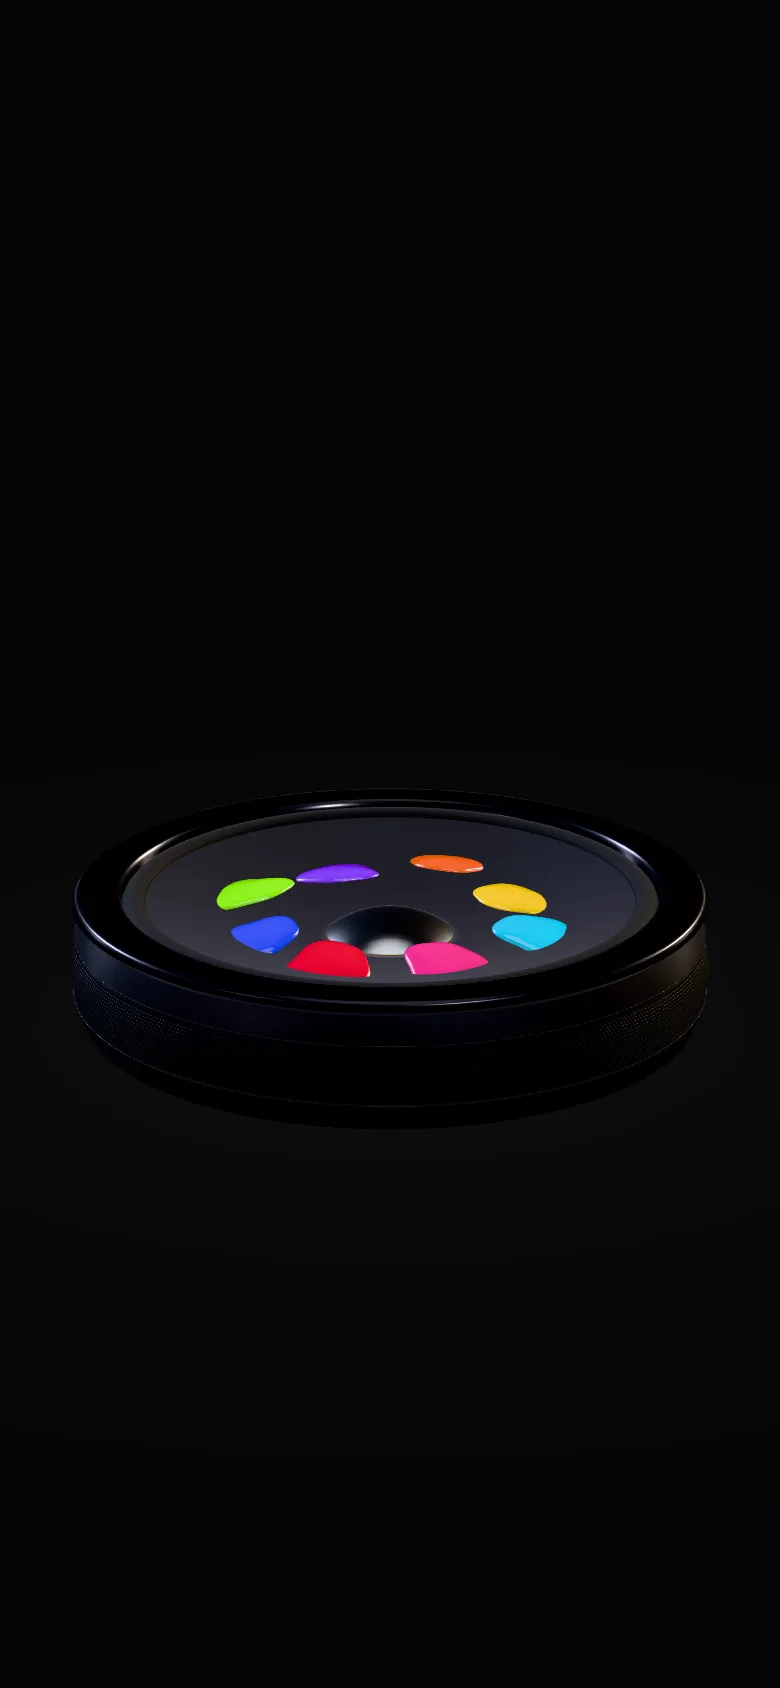
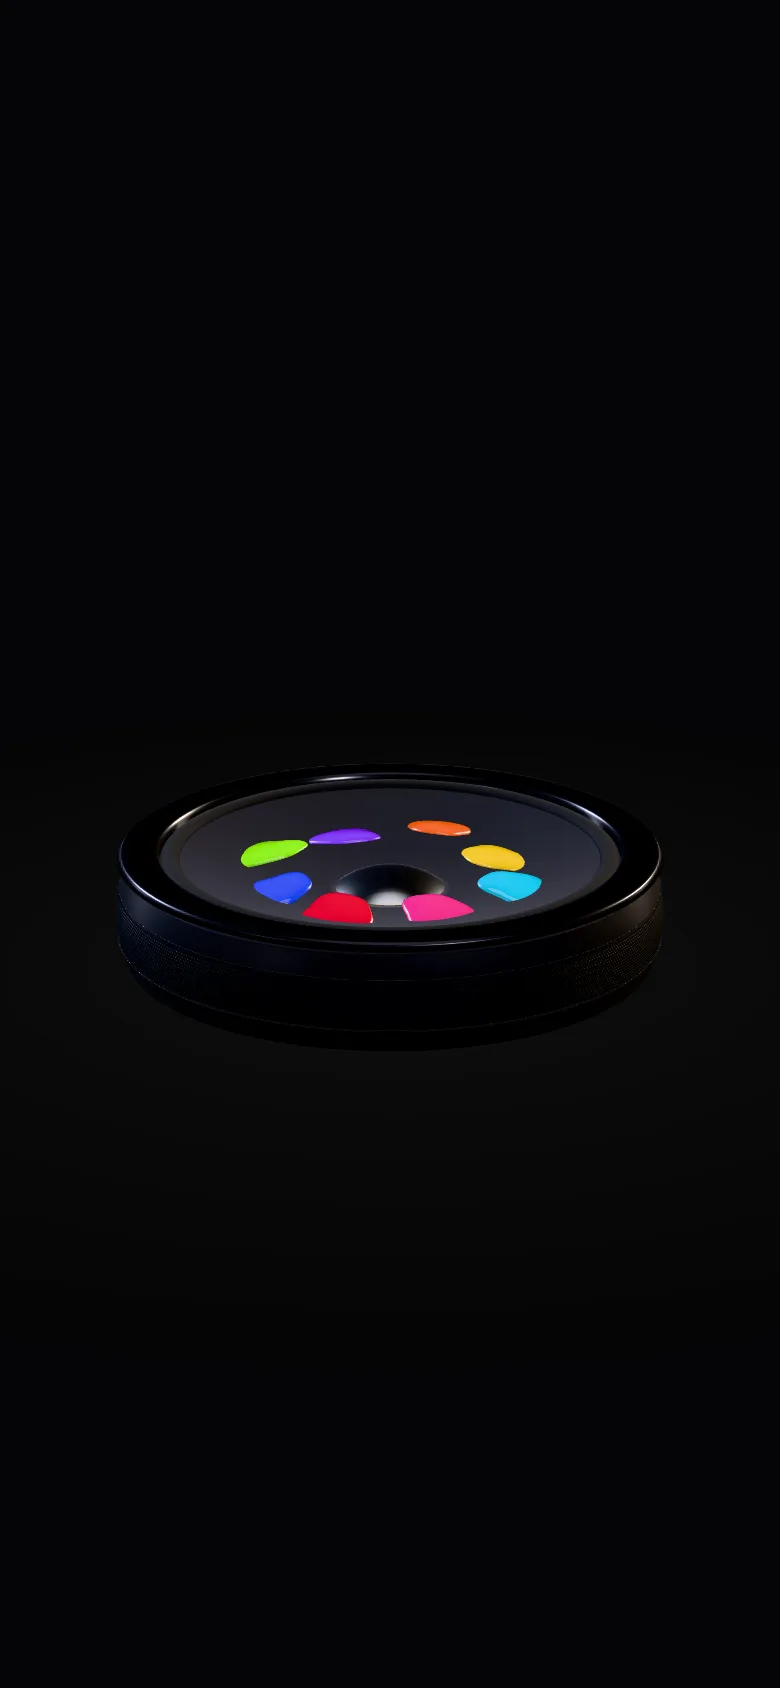
CYMA One: respect safe-area insets inside the Claude app viewer
In the Claude iPhone app the page runs under the app's top bar, delivered as
a safe-area inset. The header already cleared it, but pinned chapter text was
positioned from the viewport edge and collided with the header.

- Shared --safe-top / --safe-bottom / --stage-top / --stage-bottom tokens
  drive the header, pinned chapter text, bottom readouts and scroll cue.
- The 3D camera frames the subject in the visible band between the insets.
- The hero fits between the insets, with a two-line headline on phones.
- Finishes and the closing clear the top bar; the closing plus footer fill
  exactly one screen at the end of the page.
- shoot.mjs --inset simulates the app's insets for verification.

Claude-Session: https://claude.ai/code/session_01Y5vRxnSbJqhZWn9sDP9fyu

Changed region(s): [[0.0923, 0.4313, 0.8923, 0.5853]]

diff --git a/cyma-one/src/styles.css b/cyma-one/src/styles.css
@@ -23,6 +23,12 @@
   --header-h: 72px;
   /* Space reserved at the bottom of pinned chapters for the scroll cue. */
   --cue-space: 0px;
+  /* Phone safe areas (and the Claude app's top bar when viewed there). Pinned
+     stages stick to the viewport edge, so their content offsets by these. */
+  --safe-top: env(safe-area-inset-top, 0px);
+  --safe-bottom: env(safe-area-inset-bottom, 0px);
+  --stage-top: calc(var(--header-h) + var(--safe-top));
+  --stage-bottom: calc(var(--cue-space) + var(--safe-bottom));
   --ease-out: cubic-bezier(0.16, 0.84, 0.2, 1);
   color-scheme: dark;
 }
@@ -145,8 +151,8 @@ img { display: block; max-width: 100%; }
 
 .site-header {
   position: fixed; inset: 0 0 auto 0; z-index: 20;
-  height: calc(var(--header-h) + env(safe-area-inset-top, 0px));
-  padding-top: env(safe-area-inset-top, 0px);
+  height: calc(var(--header-h) + var(--safe-top));
+  padding-top: var(--safe-top);
   display: grid;
   grid-template-columns: 1fr auto 1fr;
   align-items: center;
@@ -277,7 +283,8 @@ main { position: relative; z-index: 2; }
 
 .hero {
   position: relative;
-  min-height: 100vh; min-height: 100svh;
+  min-height: calc(100vh - var(--safe-top) - var(--safe-bottom));
+  min-height: calc(100svh - var(--safe-top) - var(--safe-bottom));
   padding: calc(var(--header-h) + 3svh) var(--gutter) 0;
 }
 .hero__descriptor { font-size: 12px; letter-spacing: 0.14em; text-transform: uppercase; color: var(--ink-soft); }
@@ -288,7 +295,7 @@ main { position: relative; z-index: 2; }
 }
 .line--offset { padding-left: 23vw; }
 .hero__foot {
-  position: absolute; left: var(--gutter); right: var(--gutter); bottom: max(28px, 4svh);
+  position: absolute; left: var(--gutter); right: var(--gutter); bottom: calc(max(28px, 4svh) + var(--safe-bottom));
   display: flex; align-items: flex-end; justify-content: space-between; gap: 24px;
 }
 .hero__support {
@@ -316,7 +323,7 @@ main { position: relative; z-index: 2; }
 .drop__copy h2 { margin-bottom: 0.45em; }
 .drop__copy .lede { max-width: 26ch; }
 .drop__hud {
-  position: absolute; right: calc(var(--gutter) + 22px); bottom: 12svh;
+  position: absolute; right: calc(var(--gutter) + 22px); bottom: calc(12svh + var(--safe-bottom));
   display: grid; gap: 28px; justify-items: end; text-align: right;
 }
 .readout { display: grid; gap: 6px; justify-items: end; }
@@ -344,7 +351,7 @@ main { position: relative; z-index: 2; }
 
 /* 03 Frozen */
 .frozen__orbit {
-  position: absolute; right: var(--gutter); top: calc(var(--header-h) + 5svh);
+  position: absolute; right: var(--gutter); top: calc(var(--stage-top) + 5svh);
   display: grid; grid-template-columns: auto auto; column-gap: 14px; row-gap: 4px; align-items: center;
 }
 .dial { grid-row: span 2; width: 40px; height: 40px; fill: none; stroke: var(--line-strong); stroke-width: 1; }
@@ -352,9 +359,9 @@ main { position: relative; z-index: 2; }
 [data-orbit-dial] { transform-origin: 20px 20px; transform-box: view-box; }
 .orbit__value { font-size: 22px; font-weight: 300; font-variant-numeric: tabular-nums; }
 .orbit__value b { font-weight: 300; }
-.frozen__title { position: absolute; left: var(--gutter); bottom: 11svh; }
+.frozen__title { position: absolute; left: var(--gutter); bottom: calc(11svh + var(--safe-bottom)); }
 .palette {
-  position: absolute; right: var(--gutter); top: calc(var(--header-h) + 5svh + 72px);
+  position: absolute; right: var(--gutter); top: calc(var(--stage-top) + 5svh + 72px);
   display: grid; gap: 12px; justify-items: end;
 }
 .palette__options { display: flex; gap: 6px; }
@@ -392,11 +399,11 @@ main { position: relative; z-index: 2; }
 }
 .inside__copy, .meter { z-index: 1; }
 .inside__copy {
-  position: absolute; left: var(--gutter); bottom: calc(12svh + 70px);
+  position: absolute; left: var(--gutter); bottom: calc(12svh + 70px + var(--safe-bottom));
 }
 .inside__copy .lede { color: var(--ink); font-size: clamp(1.2rem, 2vw, 1.8rem); font-family: var(--display); font-stretch: 112%; font-weight: 500; line-height: 1.15; }
 .meter {
-  position: absolute; left: var(--gutter); right: var(--gutter); bottom: max(7svh, 86px);
+  position: absolute; left: var(--gutter); right: var(--gutter); bottom: calc(max(7svh, 86px) + var(--safe-bottom));
   display: grid; grid-template-columns: auto 1fr; align-items: end; gap: 32px;
 }
 .meter__value { min-width: 6.5ch; font-size: clamp(1.6rem, 2.4vw, 2.4rem); font-weight: 300; font-variant-numeric: tabular-nums; }
@@ -419,9 +426,9 @@ main { position: relative; z-index: 2; }
 }
 
 /* 05 Engineering */
-.eng__title { position: absolute; left: var(--gutter); top: calc(var(--header-h) + 4svh); }
+.eng__title { position: absolute; left: var(--gutter); top: calc(var(--stage-top) + 4svh); }
 .eng__panel {
-  position: absolute; left: var(--gutter); bottom: 7svh;
+  position: absolute; left: var(--gutter); bottom: calc(7svh + var(--safe-bottom));
   width: min(360px, 40vw);
   padding: 20px 0 0;
   border-top: 1px solid var(--line-strong);
@@ -475,7 +482,7 @@ main { position: relative; z-index: 2; }
   position: relative;
   min-height: 100vh; min-height: 100svh;
   display: grid; grid-template-columns: 1.15fr 0.85fr; align-items: center;
-  padding: calc(var(--header-h) + 3svh) var(--gutter) 6svh;
+  padding: calc(var(--stage-top) + 3svh) var(--gutter) calc(6svh + var(--safe-bottom));
 }
 .finishes__view { position: relative; align-self: stretch; isolation: isolate; }
 .finishes__panel { display: grid; gap: 30px; justify-items: start; max-width: 520px; }
@@ -506,9 +513,10 @@ main { position: relative; z-index: 2; }
 
 .closing {
   position: relative;
-  min-height: 100vh; min-height: 100svh;
+  /* With the footer, the closing fills exactly one screen at the end of the page. */
+  min-height: calc(100vh - var(--footer-h, 0px)); min-height: calc(100svh - var(--footer-h, 0px));
   display: flex; flex-direction: column; justify-content: center; align-items: flex-start; gap: 6svh;
-  padding: calc(var(--header-h) + 4svh) var(--gutter) 8svh;
+  padding: calc(var(--stage-top) + 4svh) var(--gutter) 6svh;
 }
 .closing { isolation: isolate; }
 .closing .fallback { z-index: -1; }
@@ -527,7 +535,7 @@ main { position: relative; z-index: 2; }
 
 .cue {
   position: fixed; left: 50%; z-index: 19;
-  bottom: calc(18px + env(safe-area-inset-bottom, 0px));
+  bottom: calc(18px + var(--safe-bottom));
   width: 48px; height: 48px; margin-left: -24px;
   display: grid; place-items: center;
   border-radius: 50%;
@@ -657,7 +665,7 @@ main { position: relative; z-index: 2; }
 
 @media (max-width: 899px) {
   :root { --header-h: 60px; --cue-space: 64px; }
-  .cue { width: 44px; height: 44px; margin-left: -22px; bottom: calc(14px + env(safe-area-inset-bottom, 0px)); }
+  .cue { width: 44px; height: 44px; margin-left: -22px; bottom: calc(14px + var(--safe-bottom)); }
   .site-header { grid-template-columns: auto 1fr auto; gap: 10px; }
   .site-nav { justify-self: center; }
   .site-nav ul { gap: 11px; }
@@ -670,44 +678,44 @@ main { position: relative; z-index: 2; }
   .tool__text { display: none; }
   .tool--trail { display: none; }
 
-  .hero__title { margin-top: 5svh; font-size: clamp(3.6rem, 18.5vw, 9rem); }
+  .hero__title { margin-top: 4svh; font-size: clamp(2.9rem, 14.2vw, 9rem); }
   .line--offset { padding-left: 16vw; }
-  .hero__foot { flex-direction: column; align-items: stretch; gap: 16px; bottom: calc(var(--cue-space) + 8px); }
+  .hero__foot { flex-direction: column; align-items: stretch; gap: 16px; bottom: calc(var(--stage-bottom) + 8px); }
   .hero__actions { flex-direction: column; align-items: stretch; gap: 4px; }
   .hero__actions .btn--ghost { align-self: center; }
 
-  .drop__copy { top: calc(var(--header-h) + 3svh); transform: none; width: auto; right: var(--gutter); }
+  .drop__copy { top: calc(var(--stage-top) + 3svh); transform: none; width: auto; right: var(--gutter); }
   .display--l { font-size: clamp(2.2rem, 10.5vw, 4.4rem); }
-  .drop__hud { bottom: calc(2svh + var(--cue-space)); right: var(--gutter); left: var(--gutter); display: flex; justify-content: space-between; align-items: flex-end; text-align: left; }
+  .drop__hud { bottom: calc(2svh + var(--stage-bottom)); right: var(--gutter); left: var(--gutter); display: flex; justify-content: space-between; align-items: flex-end; text-align: left; }
   .drop__hud .readout:first-child { justify-items: start; }
   .readout__value b { font-size: clamp(2rem, 9vw, 3rem); }
   .rail { display: none; }
 
-  .frozen__title { top: calc(var(--header-h) + 3svh); bottom: auto; }
-  .frozen__orbit { top: calc(var(--header-h) + 3svh + 21vw); right: auto; left: var(--gutter); }
-  .palette { top: auto; left: var(--gutter); right: var(--gutter); bottom: calc(1svh + var(--cue-space)); justify-items: stretch; }
+  .frozen__title { top: calc(var(--stage-top) + 3svh); bottom: auto; }
+  .frozen__orbit { top: calc(var(--stage-top) + 3svh + 21vw); right: auto; left: var(--gutter); }
+  .palette { top: auto; left: var(--gutter); right: var(--gutter); bottom: calc(1svh + var(--stage-bottom)); justify-items: stretch; }
   .palette__options { display: grid; grid-template-columns: repeat(5, 1fr); gap: 5px; }
   .palette__opt { min-width: 0; padding: 10px 7px; min-height: 48px; }
   .palette__name { font-size: 9.5px; letter-spacing: 0.06em; }
 
   .inside__title { font-size: clamp(3rem, 16vw, 6rem); }
-  .inside__copy { bottom: calc(2svh + 96px + var(--cue-space)); }
-  .meter { bottom: calc(2svh + var(--cue-space)); grid-template-columns: 1fr; gap: 10px; }
+  .inside__copy { bottom: calc(2svh + 96px + var(--stage-bottom)); }
+  .meter { bottom: calc(2svh + var(--stage-bottom)); grid-template-columns: 1fr; gap: 10px; }
 
-  .eng__title { top: calc(var(--header-h) + 2svh); }
-  .eng__panel { width: auto; right: var(--gutter); bottom: calc(1svh + var(--cue-space)); padding-top: 14px; }
+  .eng__title { top: calc(var(--stage-top) + 2svh); }
+  .eng__panel { width: auto; right: var(--gutter); bottom: calc(1svh + var(--stage-bottom)); padding-top: 14px; }
   .eng__list { display: none; }
   .eng__count b { font-size: 24px; }
 
   .spec { grid-template-columns: 1fr; gap: 10px; padding: 22px 0; }
 
-  .finishes { grid-template-columns: 1fr; align-items: end; padding-top: 0; }
+  .finishes { grid-template-columns: 1fr; align-items: end; padding-top: var(--safe-top); }
   .finishes__view { min-height: 44svh; }
   .finishes__panel { gap: 22px; max-width: none; padding-bottom: 2svh; }
   .swatches { gap: 18px; }
   .btn--wide { width: 100%; min-width: 0; }
 
-  .closing { justify-content: flex-start; gap: 3svh; padding-top: calc(var(--header-h) + 7svh); }
+  .closing { justify-content: flex-start; gap: 3svh; padding-top: calc(var(--stage-top) + 5svh); }
   .closing__title { font-size: clamp(3.2rem, 17vw, 7rem); }
   .closing__top { margin-left: -6px; }
 

diff --git a/cyma-one/src/lib/experience.ts b/cyma-one/src/lib/experience.ts
@@ -81,7 +81,17 @@ export function startExperience(opts: {
     spectrum: q<HTMLCanvasElement>('[data-spectrum]'),
   }
 
+  // Resolves the CSS safe-area insets (env() or an app override) to pixels.
+  const probe = document.createElement('div')
+  probe.setAttribute('aria-hidden', 'true')
+  probe.style.cssText = 'position:fixed;top:0;left:0;width:0;height:0;visibility:hidden;pointer-events:none;padding-top:var(--safe-top);padding-bottom:var(--safe-bottom)'
+  document.body.appendChild(probe)
+
   function measure() {
+    const footer = document.querySelector<HTMLElement>('.site-footer')
+    if (footer) root.style.setProperty('--footer-h', `${footer.offsetHeight}px`)
+    const ps = getComputedStyle(probe)
+    engine?.setInsets(parseFloat(ps.paddingTop) || 0, parseFloat(ps.paddingBottom) || 0)
     vh = window.innerHeight
     maxScroll = Math.max(1, document.documentElement.scrollHeight - vh)
     const w = window.innerWidth
@@ -298,8 +308,8 @@ export function startExperience(opts: {
   }
 
   const onResize = () => {
-    measure()
     if (engine) engine.resize(window.innerWidth, window.innerHeight)
+    measure()
     ScrollTrigger.refresh()
   }
   window.addEventListener('resize', onResize)
@@ -350,6 +360,7 @@ export function startExperience(opts: {
       gsap.ticker.remove(tick)
       window.removeEventListener('resize', onResize)
       ro.disconnect()
+      probe.remove()
       lenis?.destroy()
     },
   }

diff --git a/cyma-one/src/three/Engine.ts b/cyma-one/src/three/Engine.ts
@@ -57,6 +57,8 @@ export class Engine {
   private width = 1
   private height = 1
   private clock = 0
+  /** Vertical shift that centres the subject in the area between safe insets. */
+  private insetShift = 0
   private tmp = new THREE.Vector3()
   opts: EngineOptions
 
@@ -142,6 +144,12 @@ export class Engine {
     this.lastKey = ''
   }
 
+  /** Safe-area insets (px): the subject is framed in the visible band between them. */
+  setInsets(top: number, bottom: number) {
+    this.insetShift = this.height > 0 ? (top - bottom) / (2 * this.height) : 0
+    this.lastKey = ''
+  }
+
   resize(w: number, h: number) {
     this.width = w
     this.height = h
@@ -177,7 +185,7 @@ export class Engine {
     cam.lookAt(this.target)
     cam.updateProjectionMatrix()
     cam.projectionMatrix.elements[8] = -2 * shot.shiftX
-    cam.projectionMatrix.elements[9] = -2 * shot.shiftY
+    cam.projectionMatrix.elements[9] = -2 * (shot.shiftY - this.insetShift)
     cam.projectionMatrixInverse.copy(cam.projectionMatrix).invert()
 
     // Speaker.

diff --git a/cyma-one/src/three/director.ts b/cyma-one/src/three/director.ts
@@ -49,10 +49,10 @@ export function dropPaintT(p: number) {
 export const SHOTS: Record<ChapterId, (p: number, l: Layout) => Shot> = {
   hero: (_p, l) => ({
     ...base,
-    W: l.portrait ? 1.2 : 1.8,
+    W: l.portrait ? 1.4 : 1.8,
     H: l.portrait ? 1.7 : 1.8,
     ty: l.portrait ? 0.95 : 0.98,
-    shiftY: l.portrait ? 0.07 : -0.04,
+    shiftY: l.portrait ? 0.08 : -0.04,
   }),
 
   drop: (p, l) => {
